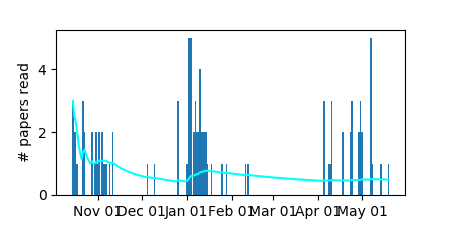
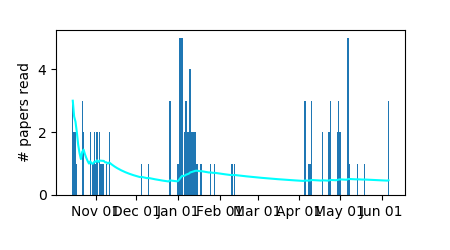
conservation papers

Changed region(s): [[0.1556, 0.14, 0.8711, 0.784], [0.1556, 0.812, 0.9022, 0.896]]

diff --git a/papers/ecology/general/Shuterlad1998AB.md b/papers/ecology/general/Shuterlad1998AB.md
@@ -1,0 +1,40 @@
+06/06/19
+## Authors:
+Shuterlad, W.J.
+## Title:
+The importance of behavioural studies in conservation biology.
+## Keywords:
+ecology, conservation
+## Geographic Coverage
+N/A
+## Field Dates:
+N/A
+## Significance:
+Review discussing key fields and research where behavioral studies can assist conservation
+
+## Notes:
+There is a lack of animal behavior research being applied directly to conservation, though this work could be directed at applied problems.  Here, he lists conservation problems that could directly benefit from aimal behavioral work.
+
+- Small population extinctions: There are some extinctions that are due to behavior, such as failure to successfully breed.  Examples are changes in communal display, behavior in pollinators in a  plant species, or changes in the behavior of a predator that leads to further decline.  In small populations in particular, sexual selection can play a key role, where behavioral components of choosing a mate leads to reproductive failure, or changes in the sexual structure of a population with environment which may be driven by nesting behavior or habitat selection.
+- Mating systems: Inbreeding depression is related at its root to the mating system, and the possibility of altering the social system to effect the population size.
+- Species isolation: In some species, hybridization is becoming a problem as is the loss of native species.  If two species hybridize, the consequences will depend on the mating behavior of each species.
+- Dispersal in fragmented populations: How patches are left recolonized depends on the behavior of the animals and how they disperse to select patches.  This also has implications for the spread of disease.
+- Predicting consequences of environmental change: understanding behavior will make it easier to predict how an animal will react within a novel environment.
+- Reducing predation: introduction/removal depends on understanding the behavior of predators, and in some cases the solution may instead be to attempt to alter the behavior of the predator or prey as a nonlethal method (using deterrants, habitat modifications).
+- Retaining cultural skills: success of release programs depends on knowing the necessary behavior/skills for an animal to posses, and understanding the impact of human interference on how an animal behaves in the wild is important.
+- Behavioral manipulations: Alteration of migration routes, altering nests and other conservation schemes have been used.
+- Release schemes: how and when to release animals may depend on the behavior of individuals/sexes or how they react to the environment they are released into.
+- Habitat requirements: We need to gather more/better information on the habitat requirements of species under conservation concern, including utilization
+- Minimum area necessary for reserves: Understanding range, behavior and dispersal is necessary to establish reserves that promote species success.
+- Captive breeding: this often fails due to behavioral issues related to courting and choosing mates.
+- Reproductive behavior/physiology: application of techniques on near-extinct populations in the wild
+- Trade-offs in habitat preference: evaluate human disturbance through behavioral tradeoffs between resource and risk
+- Measuring stress
+- Census: understanding behavior is necessary for accurate surveys (likelihood of being counted/observed)
+- Exploitation: similarly to census, how animals are "available" based on behavior and what that should mean for regulating exploitation.
+- Human population increase: understanding the impacts of our own increasing population through behavioral components ma help address risk.
+- Discounting: benefits now rather than later, which has important implications for conservation and exploitation.  How animals (including humans) value delayed reward is important for both those doing the conserving and those being conserved.
+- Increasing conservation concern: how do we promote the valuation of conservation
+- conserving behavior: in some instances, conserving a behavior itself is a necessary task.
+
+Alternatively, it is important to understand the implications of environmental change on behavior, rather than the other way around, such as how species have changed their migration routes or altered their age at maturity based on environmentally-driven growth.

diff --git a/README.md b/README.md
@@ -114,12 +114,18 @@ Notes (author, year, journal in file header) on readings.  Top of each note docu
      * Brief letter on the history of behavioral ecology as a field 
 * [Heithaus2007JAE - State-dependent risk-taking by green sea turtles mediates top-down effects of tiger shark intimidation in a marine ecosystem](https://github.com/leviner/ReadingList/tree/master/papers/ecology/general/Heithaus2007JAE.md) 
      * Found that sea turtles in better condition were more likely to move out of regions of higher food quality when risk of predation increased.  Shark presence has non-lethal implications on the turtle and thus the seagrass population. 
+* [Helfman1999EBF - Behavior and fish conservation: introduction, motivation, and overview Gene](https://github.com/leviner/ReadingList/tree/master/papers/ecology/general/Helfman1999EBF.md) 
+     * The introduction to a special issue on behavior and fish conservation 
 * [Lampert1989FE - The Adaptive Significance of Diel Vertical Migration of Zooplankton](https://github.com/leviner/ReadingList/tree/master/papers/ecology/general/Lampert1989FE.md) 
      * Describes how DVM varies individually within a migrating population based on a compromise between predation pressure, food availability and temperature gradients. 
 * [Lima1998B - Nonlethal Effects in the Ecology of Predator-Prey Interactions](https://github.com/leviner/ReadingList/tree/master/papers/ecology/general/Lima1998B.md) 
      * Prey put in a significant amount of effort to avoid predation, and this behavior has major implications at the individual, population, and ecosystem level.  A review of the current research. 
 * [LimaDill1990CJZ - Behavioral decisions made under the risk of predation: a review and prospectus](https://github.com/leviner/ReadingList/tree/master/papers/ecology/general/LimaDill1990CJZ.md) 
      * Risk of predation is integral to decision making.  Here they outline many of the factors influenced by predation risk. 
+* [Pister1999EBF - Professional obligations in the conservation of fishes](https://github.com/leviner/ReadingList/tree/master/papers/ecology/general/Pister1999EBF.md) 
+     * Editorial on the values and professional responsibilities of a fisheries researcher 
+* [Shuterlad1998AB - The importance of behavioural studies in conservation biology.](https://github.com/leviner/ReadingList/tree/master/papers/ecology/general/Shuterlad1998AB.md) 
+     * Review discussing key fields and research where behavioral studies can assist conservation 
 
 ## pacificArctic 
  

diff --git a/papers/ecology/general/Helfman1999EBF.md b/papers/ecology/general/Helfman1999EBF.md
@@ -1,0 +1,31 @@
+06/06/19
+## Authors:
+Helfman, Gene S.
+## Title:
+Behavior and fish conservation: introduction, motivation, and overview Gene
+## Keywords:
+ecology, habitat conservation,
+## Geographic Coverage
+N/A
+## Field Dates:
+N/A
+## Significance:
+The introduction to a special issue on behavior and fish conservation
+
+## Notes:
+The contribution of behavioral studies to conservation has been overlooked, particularly in aquatic sciences where there appears to remain a divide, particularly between the articles included in journals.  Meanwhile, public interest in conservation, largely driven by natural history television shows, is built on observations of behavior.  Also, without knowledge of behavioral interactions of how an animal interacts with others and its environment, we cannot fully reassemble failing ecosystems.
+
+The papers in the issue are build around six themes:
+- Reproductive behavior and its role in recovery
+- species-habitat interactions and how habitat choice, loss, and protection impact success
+- how reserves function
+- the behavioral complexity of predator-prey interactions 
+- Human behavior and our impacts
+- Understanding and acting on conservation
+
+
+The volume starts off with a call to arms (see Pister 1999 EBF), then four topics:
+- Behavioral ecology and fish conservation focused on reproductive success, with papers looking at the implications of pollution, looking at the impact of toxins on behavior
+- Fish behavior and the design of reef reserves, looking at the utility of reserves and how behavior is crucial to determine the proper size, timing, and utility of the reserves.  Papers look at interactions within the reserve and how they may influence success via reproduction and predator-prey relationships, and how migration and spawning timing in reef systems effects their exploitation.
+- Behavior of imperiled fish, in which papers look at how interactions (introduced predators, reduced habitat) influence behavior and thus recovery/reproduction of a species.
+- Human behavior and fish behavior, looking at how fishers take advantage of fish behavior to improve catch success, and looking at why behavior has been overlooked by researchers in conservation.

diff --git a/papers/ecology/general/Pister1999EBF.md b/papers/ecology/general/Pister1999EBF.md
@@ -1,0 +1,26 @@
+06/06/19
+## Authors:
+Pister, Edwin P.
+## Title:
+Professional obligations in the conservation of fishes
+## Keywords:
+policy, communication, research
+## Geographic Coverage
+N/A
+## Field Dates:
+N/A
+## Significance:
+Editorial on the values and professional responsibilities of a fisheries researcher
+
+## Notes:
+Anyone who understands the dangers we are putting on the planet and its biota should take some responsibility and act to conserve it.  Recognition of a problem is now global but we need to define a structured solution, and researchers/managers are responsible.
+
+Our values must reflect the broader picture rather than the short-term value seen by individuals and stakeholders.
+
+Broadening research direction and professional responsibility: universities currently do not incentivize or provide means to support the activities specified within the university mission, particularly when regarding engagement.  Encouraging conservation application in addition to basic science is important (consider how your research has made a contribution to solving environmental problems).
+
+Enhanced communication: communication between agency and academic science needs to improve to build better cohesive and designed conservation and management programs.  He proposes the question we should be asking ourselves: "Is my research realistically going to help assure the creature or habitat (or ecosystem) I am studying will exist in the year 2048, or 2098?"
+
+Roots of the problem: There is a disconnect in how we are taught as scientists to address questions in boxes, which is aggravated by increasing specialty, rather than integrative and interdisciplinary thinking.  University curricula has moved away from these broad philosophical contexts and thus the ethics and values of the science are no longer taught.
+
+Our best hope comes from environmental philosophers who can convince an electorate of the value and moral obligation of preserving nature.
